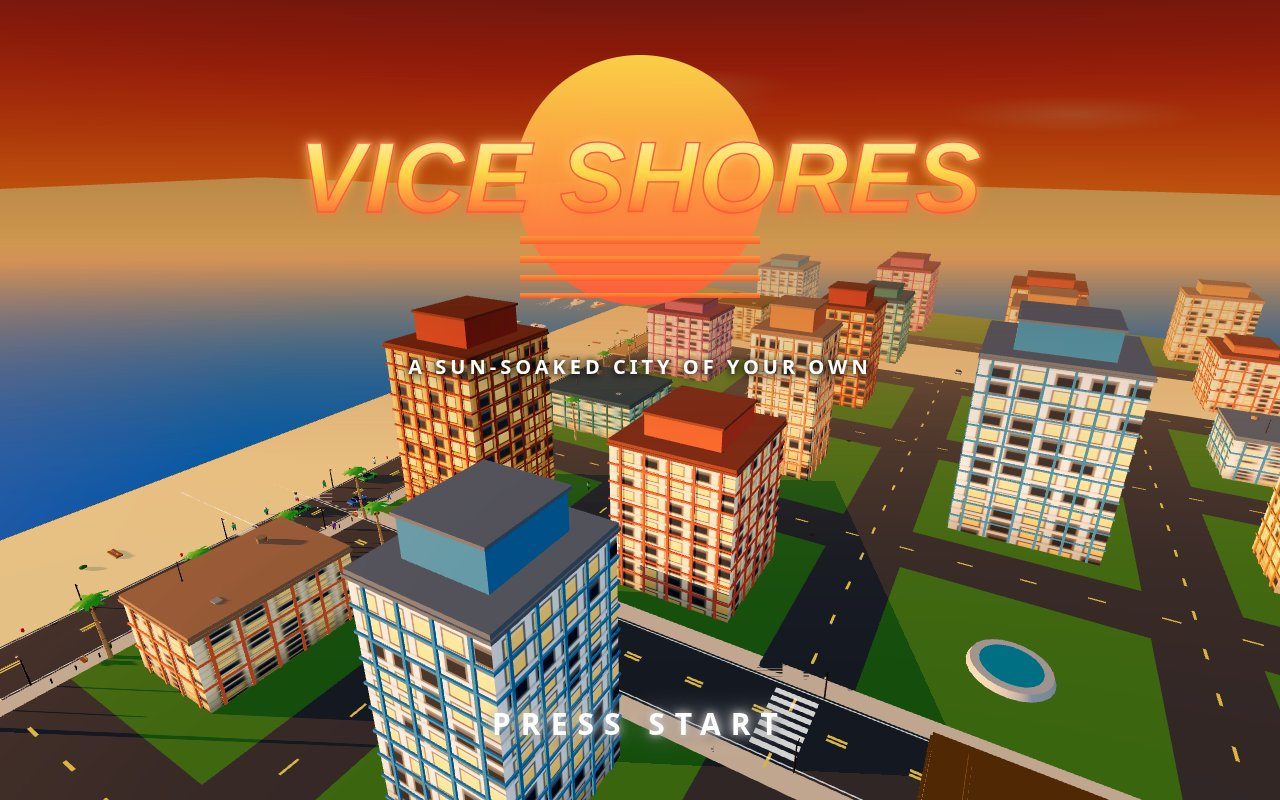
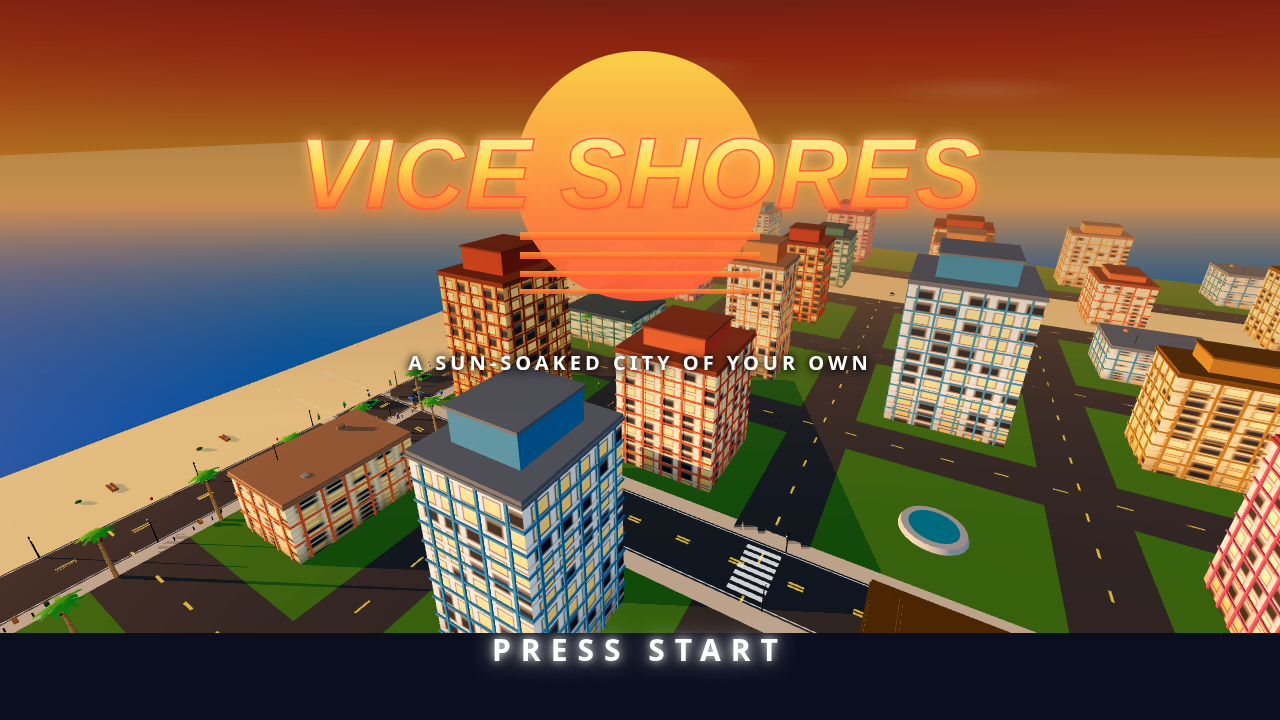
Micro fix: horizon seam (sky bot = tone-mapped fog), car shadow 0.07, rotor disc 0.10 neutral, sky desat + exposure -6%

diff --git a/game/src/config.js b/game/src/config.js
@@ -14,11 +14,11 @@ export const WORLD = {
 export const DAYTIME = {
   golden: {
     hour: 17.5, sun: 0xffb36b, sunStrength: 2.6, hemiStrength: 0.95,
-    fog: 0xffb36b, top: 0x2e4a8f, mid: 0xe87a4a, bot: 0xffb36b,
+    fog: 0xffb36b, top: 0x2e4a8f, mid: 0xea8a5e, bot: 0xeacb83, exposure: 0.94,
   },
   sunset: {
     hour: 18.8, sun: 0xff8f4d, sunStrength: 2.2, hemiStrength: 1.0,
-    fog: 0xe8795a, top: 0x4a5a7a, mid: 0xd9553f, bot: 0xff9a3d,
+    fog: 0xe8795a, top: 0x4a5a7a, mid: 0xdd6f52, bot: 0xe39568, exposure: 0.94,
   },
   afternoon: {
     hour: 16.0, sun: 0xffd9a0, sunStrength: 2.8, hemiStrength: 0.68,

diff --git a/game/src/vehicles.js b/game/src/vehicles.js
@@ -174,7 +174,7 @@ export function makeHeroCar() {
   car.group.position.set(150, 0, -20);
   const shadowGeo = new THREE.CircleGeometry(1, 24);
   const shadowMat = new THREE.MeshBasicMaterial({
-    color: 0x000000, transparent: true, opacity: 0.18, depthWrite: false,
+    color: 0x000000, transparent: true, opacity: 0.07, depthWrite: false,
   });
   const shadow = new THREE.Mesh(shadowGeo, shadowMat);
   shadow.rotation.x = -Math.PI / 2;

diff --git a/game/src/police.js b/game/src/police.js
@@ -138,7 +138,7 @@ export function createHelicopter(scene) {
   }
   group.add(rotor);
   const discMat = new THREE.MeshBasicMaterial({
-    color: 0xaaaaaa, transparent: true, opacity: 0.18,
+    color: 0x8a8a8a, transparent: true, opacity: 0.10,
     side: THREE.DoubleSide, depthWrite: false,
   });
   const disc = new THREE.Mesh(new THREE.CircleGeometry(4.5, 32), discMat);

diff --git a/game/src/render/lighting.js b/game/src/render/lighting.js
@@ -45,7 +45,7 @@ export function createLighting(scene, renderer) {
     sun.intensity = preset.sunStrength;
     hemi.intensity = preset.hemiStrength;
     fill.intensity = isNight ? 1.0 : 0.35;
-    renderer.toneMappingExposure = 1.15;
+    renderer.toneMappingExposure = 1.15 * (preset.exposure ?? 1);
     return { dir, isNight };
   }
 
